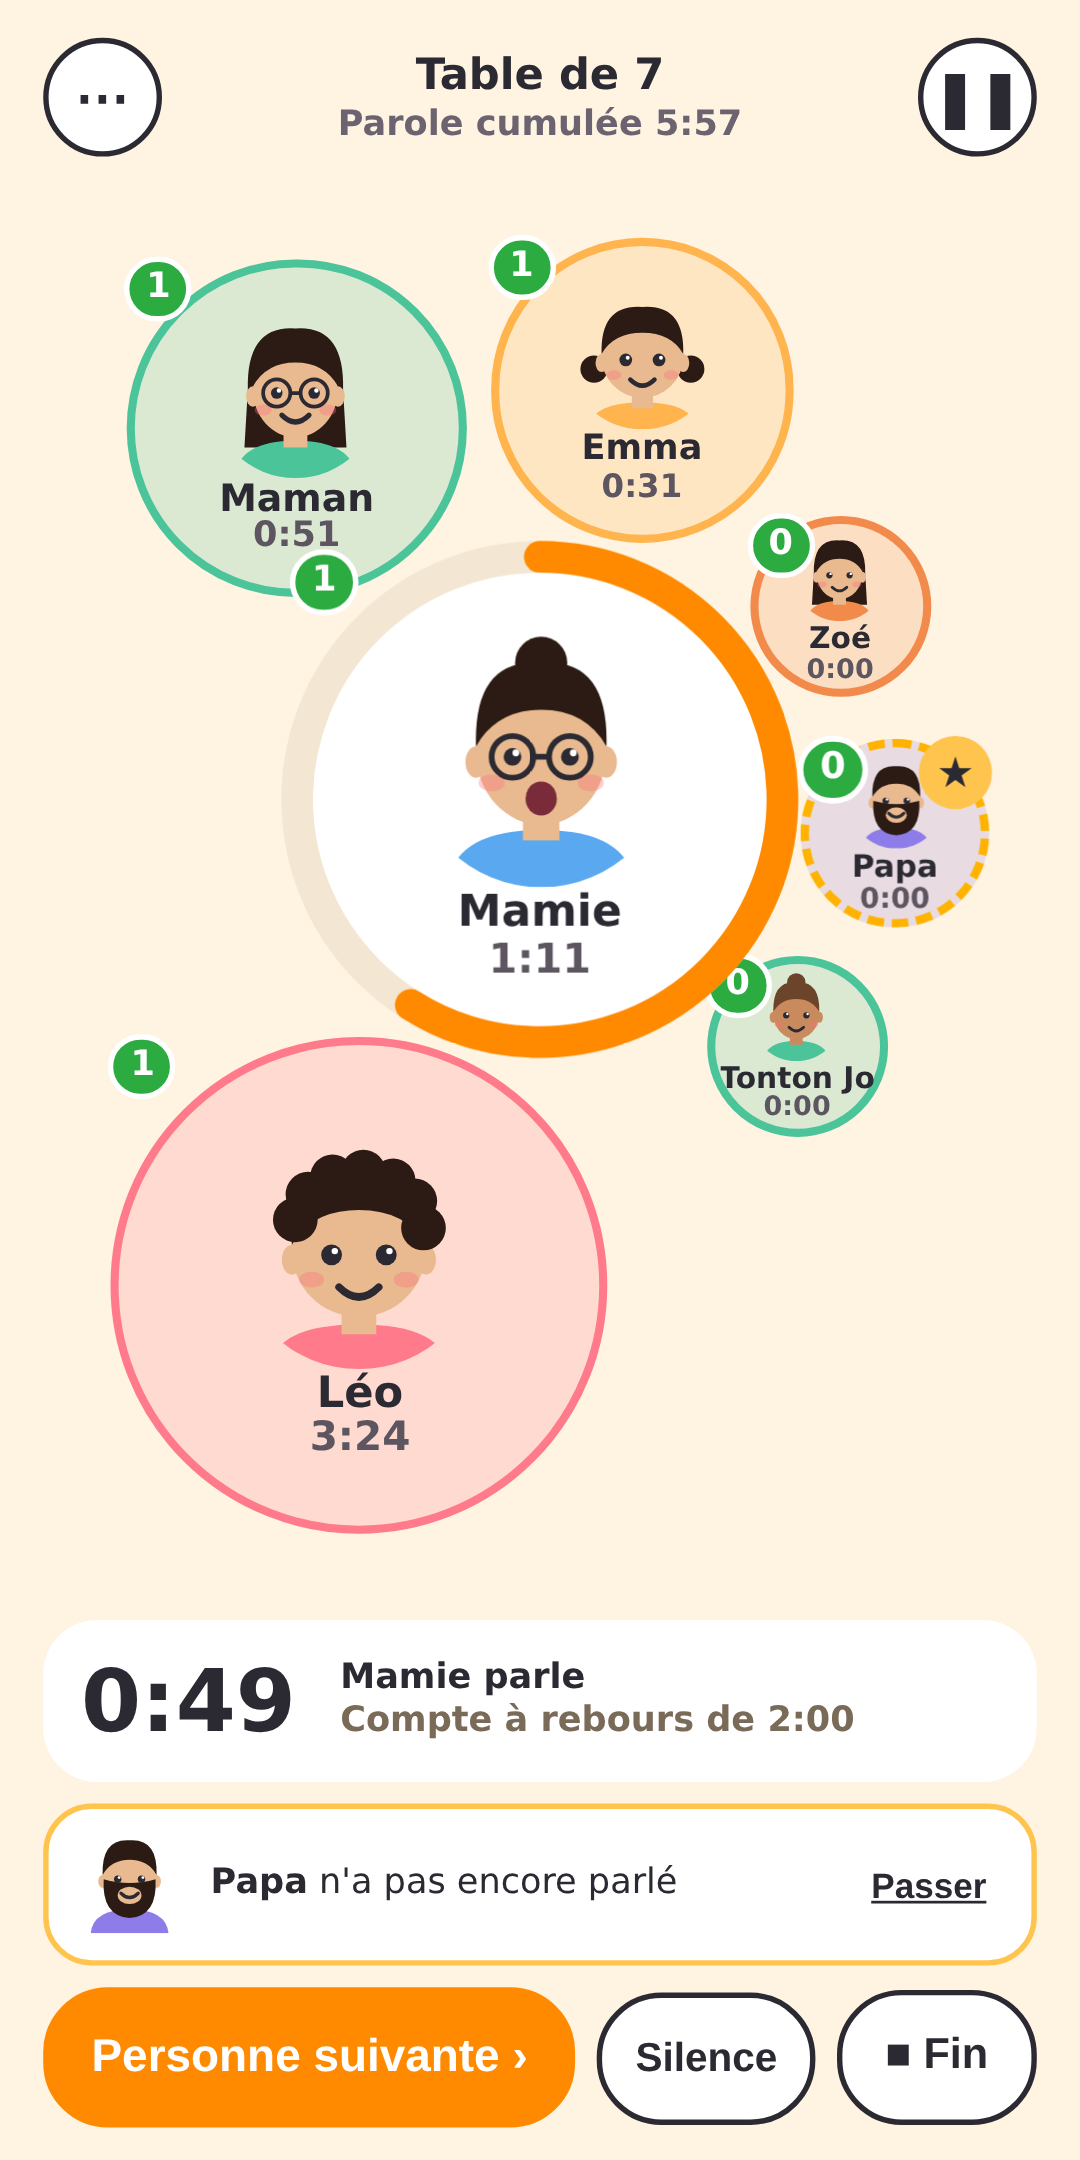
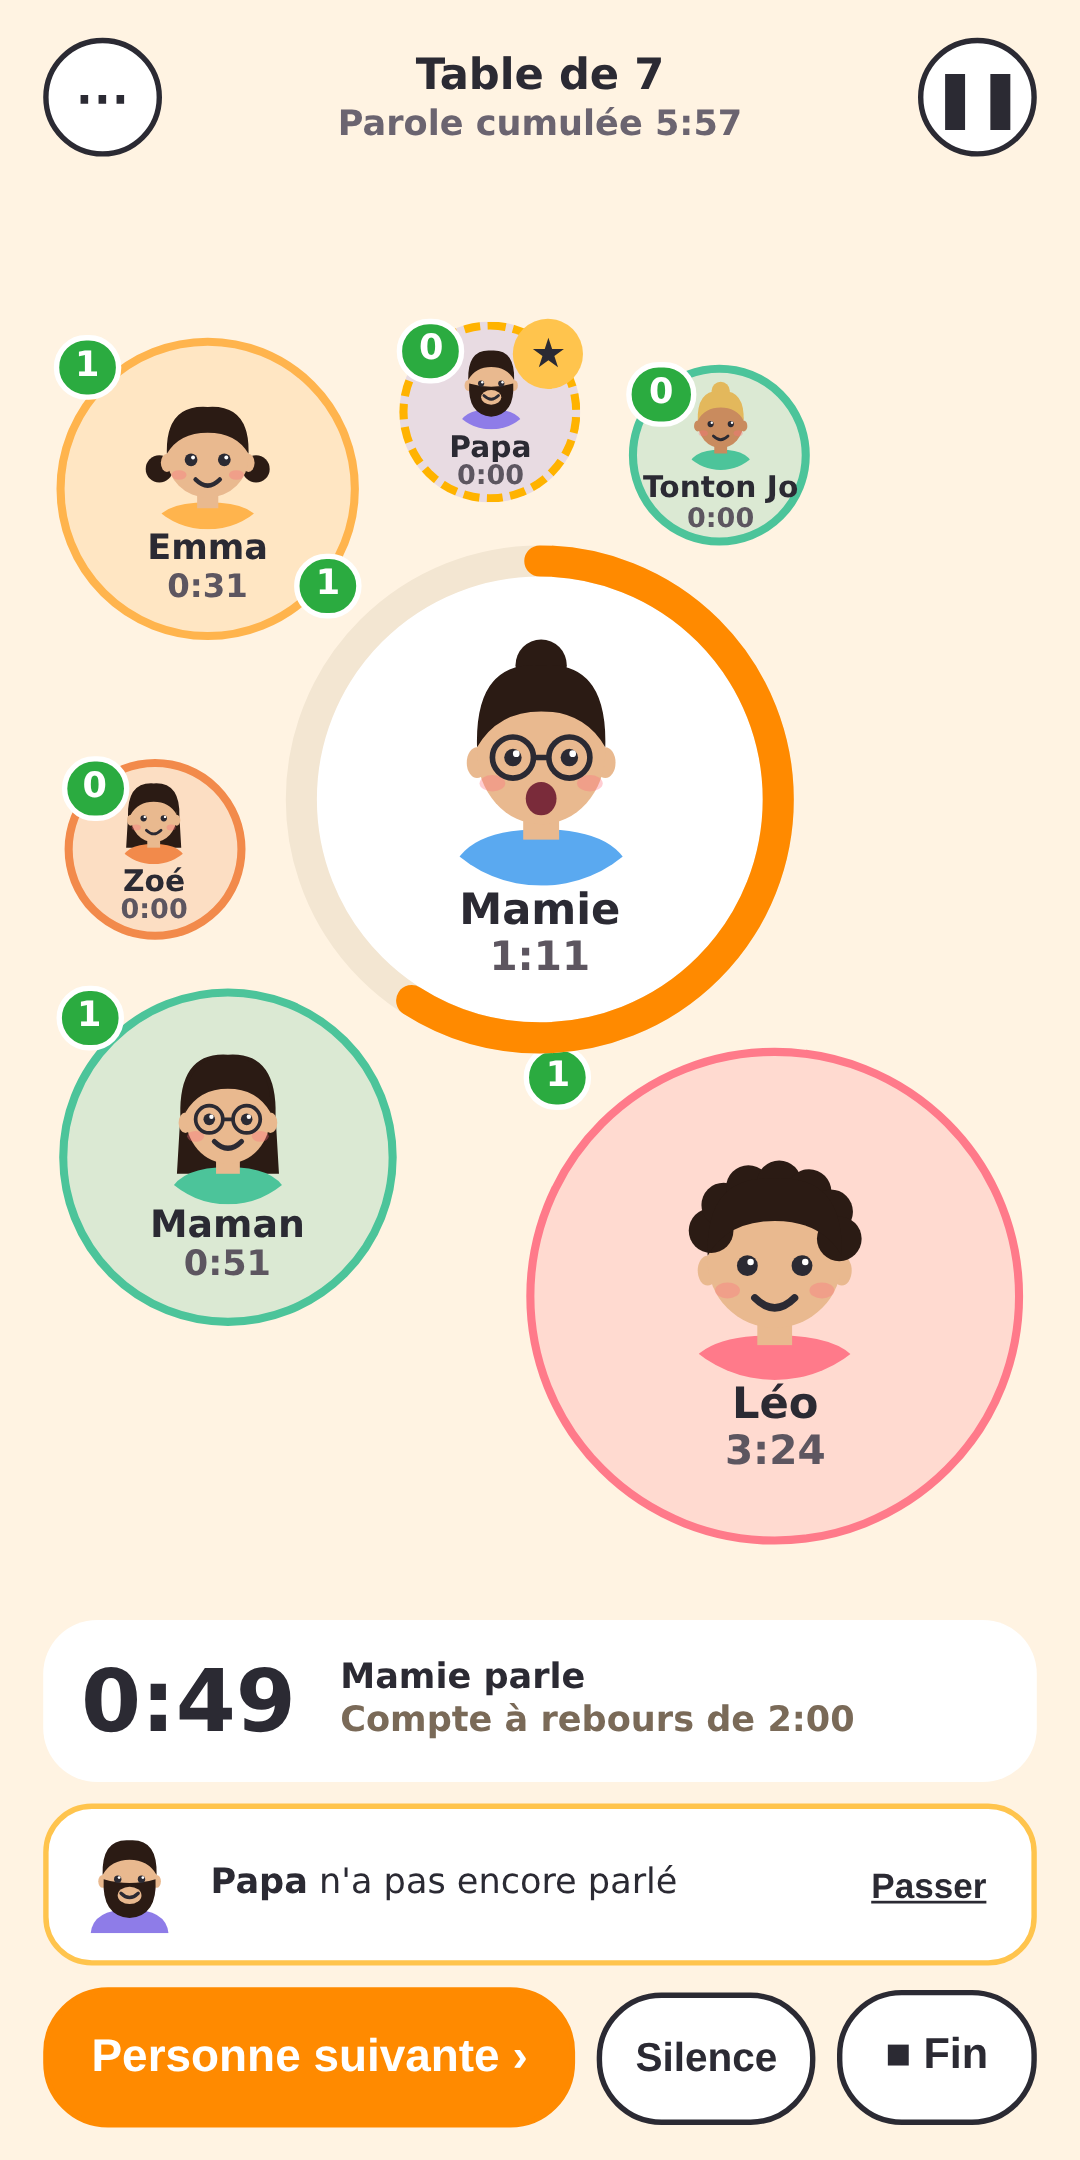
Espace l'anneau de progression des autres bulles et fiabilise les captures
- L'anneau de la bulle active dépasse le cercle d'environ 12 px (svg inset -9 px
  plus le trait) : le placement reçoit un rayon majoré d'autant, pour que les
  bulles voisines gardent leur marge avec l'anneau et ne passent plus dessous
- Le test fige transitions et animations : chaque capture montre la disposition
  stable, jamais un déplacement en cours ; une assertion géométrique vérifie
  qu'aucune bulle n'en touche une autre sur les vues live
- La durée de session affichée au bilan est recalée dans la fixture (le
  rechargement remettait l'horloge simulée à zéro : 0:14 affiché pour 5:57
  de parole cumulée)
- Captures Play Store régénérées

diff --git a/tests/ui.test.js b/tests/ui.test.js
@@ -19,9 +19,25 @@ let step = 0;
   await page.evaluateOnNewDocument(() => {
     let off = 0; const real = Date.now.bind(Date);
     Date.now = () => real() + off; window.__advance = ms => { off += ms; };
+    /* Captures déterministes : transitions et animations coupées, chaque capture montre
+       la disposition stable, jamais un déplacement ou une pulsation en cours. */
+    window.addEventListener('DOMContentLoaded', () => {
+      const st = document.createElement('style');
+      st.textContent = '.bubble { transition: none !important; } .bubble.sug, .bubble.active.running { animation: none !important; }';
+      document.head.appendChild(st);
+    });
   });
   await page.goto(URL);
   const shot = async name => { step++; const f = `${OUT}/${String(step).padStart(2, '0')}-${name}.png`; await page.screenshot({ path: f }); return f; };
+  /* Vérifie qu'aucune bulle n'en touche une autre (rayon visuel : +10 px pour l'anneau
+     de progression de la bulle active, badges compris dans la marge de 8 px du placement). */
+  const assertPasDeCollision = async () => {
+    const bs = await page.evaluate(() => [...document.querySelectorAll('.bubble')].map(b => { const r = b.getBoundingClientRect(); return { n: b.querySelector('.bn').textContent, x: r.x + r.width / 2, y: r.y + r.height / 2, r: r.width / 2 + (b.classList.contains('active') ? 10 : 0) }; }));
+    for (let i = 0; i < bs.length; i++) for (let j = i + 1; j < bs.length; j++) {
+      const d = Math.hypot(bs[i].x - bs[j].x, bs[i].y - bs[j].y);
+      assert(d >= bs[i].r + bs[j].r - 1, 'bulles qui se touchent: ' + bs[i].n + ' / ' + bs[j].n + ' (distance ' + Math.round(d) + ' < ' + Math.round(bs[i].r + bs[j].r) + ')');
+    }
+  };
   const click = sel => page.evaluate(s => { const e = document.querySelector(s); if (!e) throw new Error('introuvable: ' + s); e.click(); }, sel);
   const text = () => page.evaluate(() => document.body.innerText);
   /* 1100 ms > transition CSS des bulles (0,9 s) : les captures montrent l'état stable,
@@ -81,6 +97,7 @@ let step = 0;
   await shot('preparation');
   await click('[data-act=launch]');
   await new Promise(r => setTimeout(r, 1200));
+  await assertPasDeCollision();
   await shot('live-depart');
   const fit = () => page.evaluate(() => { const st = document.getElementById('stage'); return [...document.querySelectorAll('.bubble')].map(b => ({ n: b.querySelector('.bn').textContent, over: (b.offsetTop + b.offsetHeight) - st.clientHeight })).filter(x => x.over > 2); });
   assert.deepStrictEqual(await fit(), [], 'toutes les bulles visibles sans défiler (écran court compris)');
@@ -100,6 +117,7 @@ let step = 0;
   // 5. dépassement doux
   await adv(80000);
   t = await text(); assert(t.includes('+0:'), 'dépassement affiché');
+  await assertPasDeCollision();
   await shot('live-depassement');
   gm = await geo();
   assert(gm.prog.da.startsWith('100') && gm.prog2, 'après dépassement: orange complet + arc rouge par-dessus');
@@ -112,6 +130,7 @@ let step = 0;
 
   // 6. suivante x3 avec temps différents
   for (let i = 0; i < 3; i++) { await click('[data-act=next]'); await adv(30000 + i * 20000); }
+  await assertPasDeCollision();
   await shot('live-apres-suivantes');
   const spoken = await page.evaluate(() => { const s = window.__tp.store.live; return Object.keys(s.passed).length; });
   assert(spoken >= 3, 'tour en cours');
@@ -170,6 +189,15 @@ let step = 0;
   assert((await text()).includes('Julie'), 'session sauvegardée');
 
   // 11. fin + bilan
+  /* Le rechargement a remis l'horloge simulée à zéro : la durée de la session
+     (endedAt - startedAt) serait de quelques secondes, incohérente avec la parole
+     cumulée affichée au bilan. On recale startedAt avant de terminer. */
+  await page.evaluate(() => {
+    const L = window.TPLogic, st = window.__tp.store, t = Date.now();
+    const cum = st.live.people.reduce((a, p) => a + L.totalMs(st.live, p.id, t), 0);
+    st.live.startedAt = t - cum - 60000;
+    window.__tp.save(); window.__tp.render();
+  });
   const nSess = await page.evaluate(() => window.__tp.store.sessions.length);
   await shot('live-avec-fin');
   await click('#panel [data-act=endask]'); await shot('fin-confirmation');

diff --git a/app/src/main/assets/app.js b/app/src/main/assets/app.js
@@ -180,7 +180,12 @@
     var cur = s.current ? s.current.pid : null, sug = L.suggestion(s, t), running = L.isRunning(s);
     var totals = {}; s.people.forEach(function (p) { totals[p.id] = L.totalMs(s, p.id, t); });
     var radii = L.bubbleRadii(totals, cur, W, H);
-    var items = s.people.map(function (p) { return { id: p.id, r: radii[p.id], first: p.id === (cur || sug) }; });
+    /* L'anneau de progression dépasse la bulle active d'environ 12 px (svg à inset -9 px
+       plus son trait) : on l'ajoute au rayon de placement pour que les autres bulles
+       gardent leur marge avec l'anneau, pas seulement avec le cercle. */
+    var RING = 12;
+    var packR = function (id) { return radii[id] + (id === cur ? RING : 0); };
+    var items = s.people.map(function (p) { return { id: p.id, r: packR(p.id), first: p.id === (cur || sug) }; });
     var pk = L.packBubbles(items, W, H, 8);
     /* Écran court: si les bulles débordent sous la zone visible, on les réduit (rayon mini 22 px, touchable)
        jusqu'à tout faire tenir sans défiler. Au-delà (beaucoup de monde), la zone reste défilante. */
@@ -189,7 +194,7 @@
       if (minR <= 22) break;
       var k = Math.max(22 / minR, Math.min(0.96, (H - 10) / pk.height));
       items = items.map(function (x) { return { id: x.id, r: Math.max(22, x.r * k), first: x.first }; });
-      items.forEach(function (x) { radii[x.id] = x.r; });
+      items.forEach(function (x) { radii[x.id] = x.r - (x.id === cur ? RING : 0); });
       pk = L.packBubbles(items, W, H, 8);
     }
     inner.style.height = pk.height + 'px';
